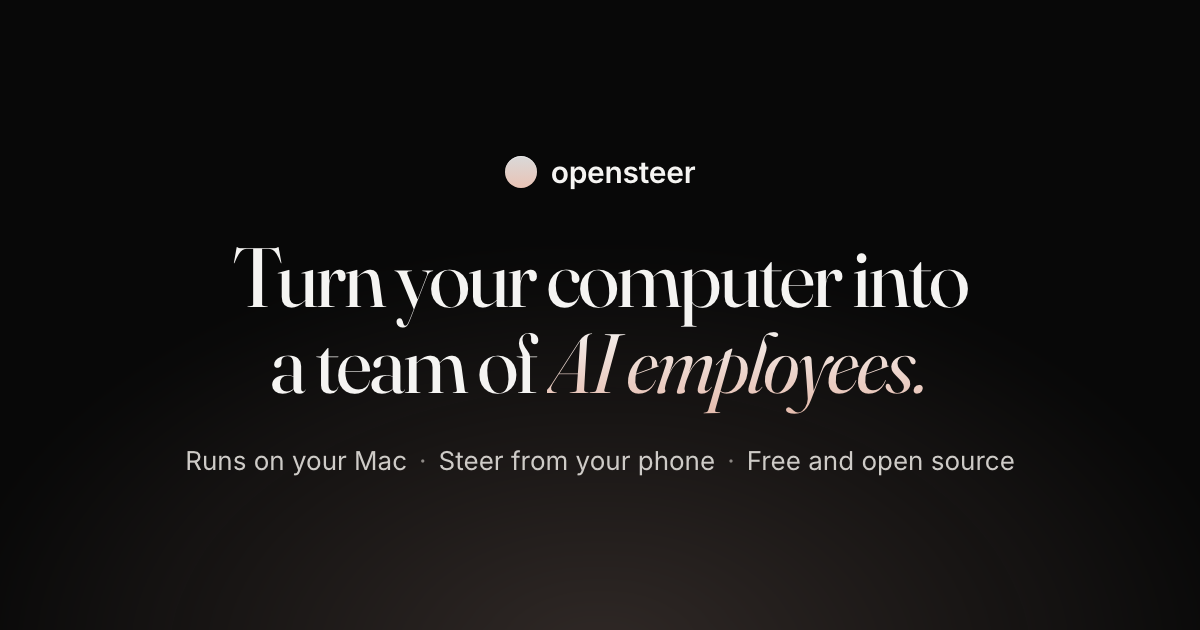
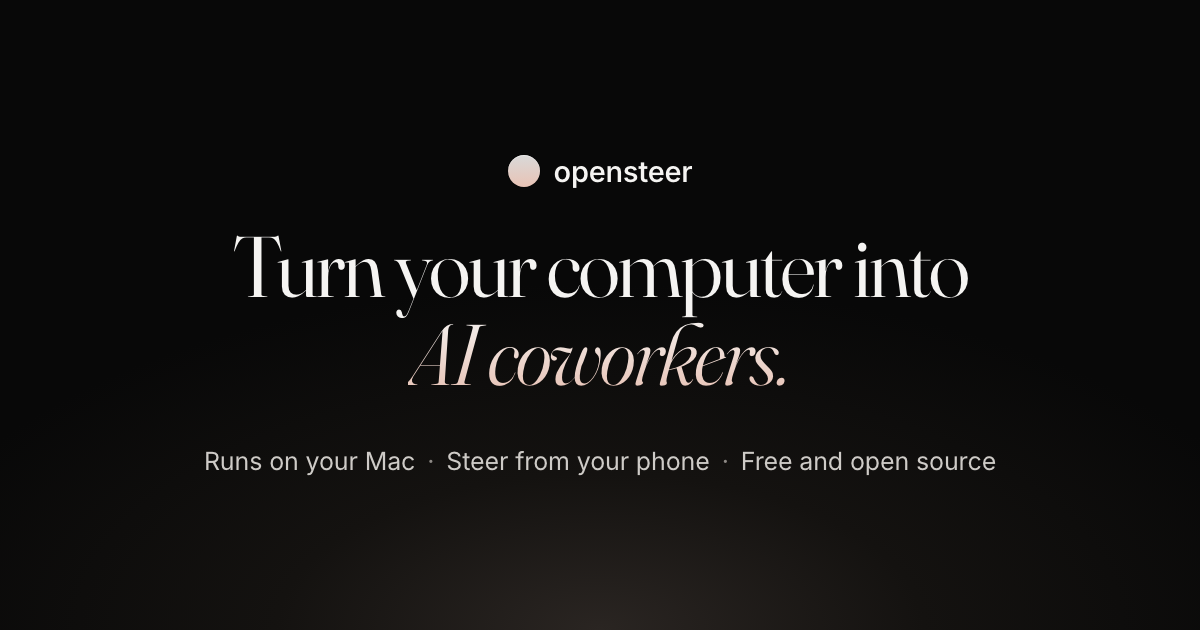
feat: call them AI coworkers on the landing page (#641)
The hero, page title, meta description, closing line, share image and its
alt text now say "Turn your computer into AI coworkers" in place of "a team
of AI employees".

Changed region(s): [[0.185, 0.3619, 0.8017, 0.6635], [0.1542, 0.6937, 0.8633, 0.754], [0.4008, 0.2413, 0.5858, 0.3016]]

diff --git a/apps/marketing/index.html b/apps/marketing/index.html
@@ -3,10 +3,10 @@
   <head>
     <meta charset="utf-8" />
     <meta name="viewport" content="width=device-width, initial-scale=1, viewport-fit=cover" />
-    <title>Opensteer: turn your computer into a team of AI employees</title>
+    <title>Opensteer: turn your computer into AI coworkers</title>
     <meta
       name="description"
-      content="Opensteer turns your computer into a team of AI employees you can steer from anywhere. Agents work in the browser, logins, apps and files already on your Mac, on the AI you already pay for. Free and open source."
+      content="Opensteer turns your computer into AI coworkers you can steer from anywhere. Agents work in the browser, logins, apps and files already on your Mac, on the AI you already pay for. Free and open source."
     />
   </head>
   <body>
@@ -648,9 +648,7 @@
             ><svg class="pill__mark" aria-hidden="true"><use href="#i-github" /></svg>Free and open
             source<svg><use href="#m-chevr" /></svg
           ></a>
-          <h1 data-in style="--d: 1">
-            Turn your computer into <br />a team of <em>AI employees.</em>
-          </h1>
+          <h1 data-in style="--d: 1">Turn your computer into <br /><em>AI coworkers.</em></h1>
           <p class="hero__sub" data-in style="--d: 2">
             Agents work in the browser, logins, apps and files already on your Mac. Use it from
             anywhere.
@@ -963,7 +961,7 @@
         <div class="wrap reveal">
           <span class="closing__icon" aria-hidden="true"><span class="orb"></span></span>
           <h2>Free and <em>open source.</em></h2>
-          <p>Opensteer turns the Mac you already have into a team of AI employees.</p>
+          <p>Opensteer turns the Mac you already have into AI coworkers.</p>
           <a class="btn btn--accent" href="{{macDownload}}"
             ><svg><use href="#i-download" /></svg>Download for Mac</a
           >

diff --git a/apps/marketing/vite.config.ts b/apps/marketing/vite.config.ts
@@ -68,11 +68,7 @@ function siteShell(): Plugin {
           meta("property", "og:image", `${origin}/og.png`),
           meta("property", "og:image:width", "1200"),
           meta("property", "og:image:height", "630"),
-          meta(
-            "property",
-            "og:image:alt",
-            "Opensteer: turn your computer into a team of AI employees",
-          ),
+          meta("property", "og:image:alt", "Opensteer: turn your computer into AI coworkers"),
           meta("name", "twitter:card", "summary_large_image"),
         );
         return { html, tags };
